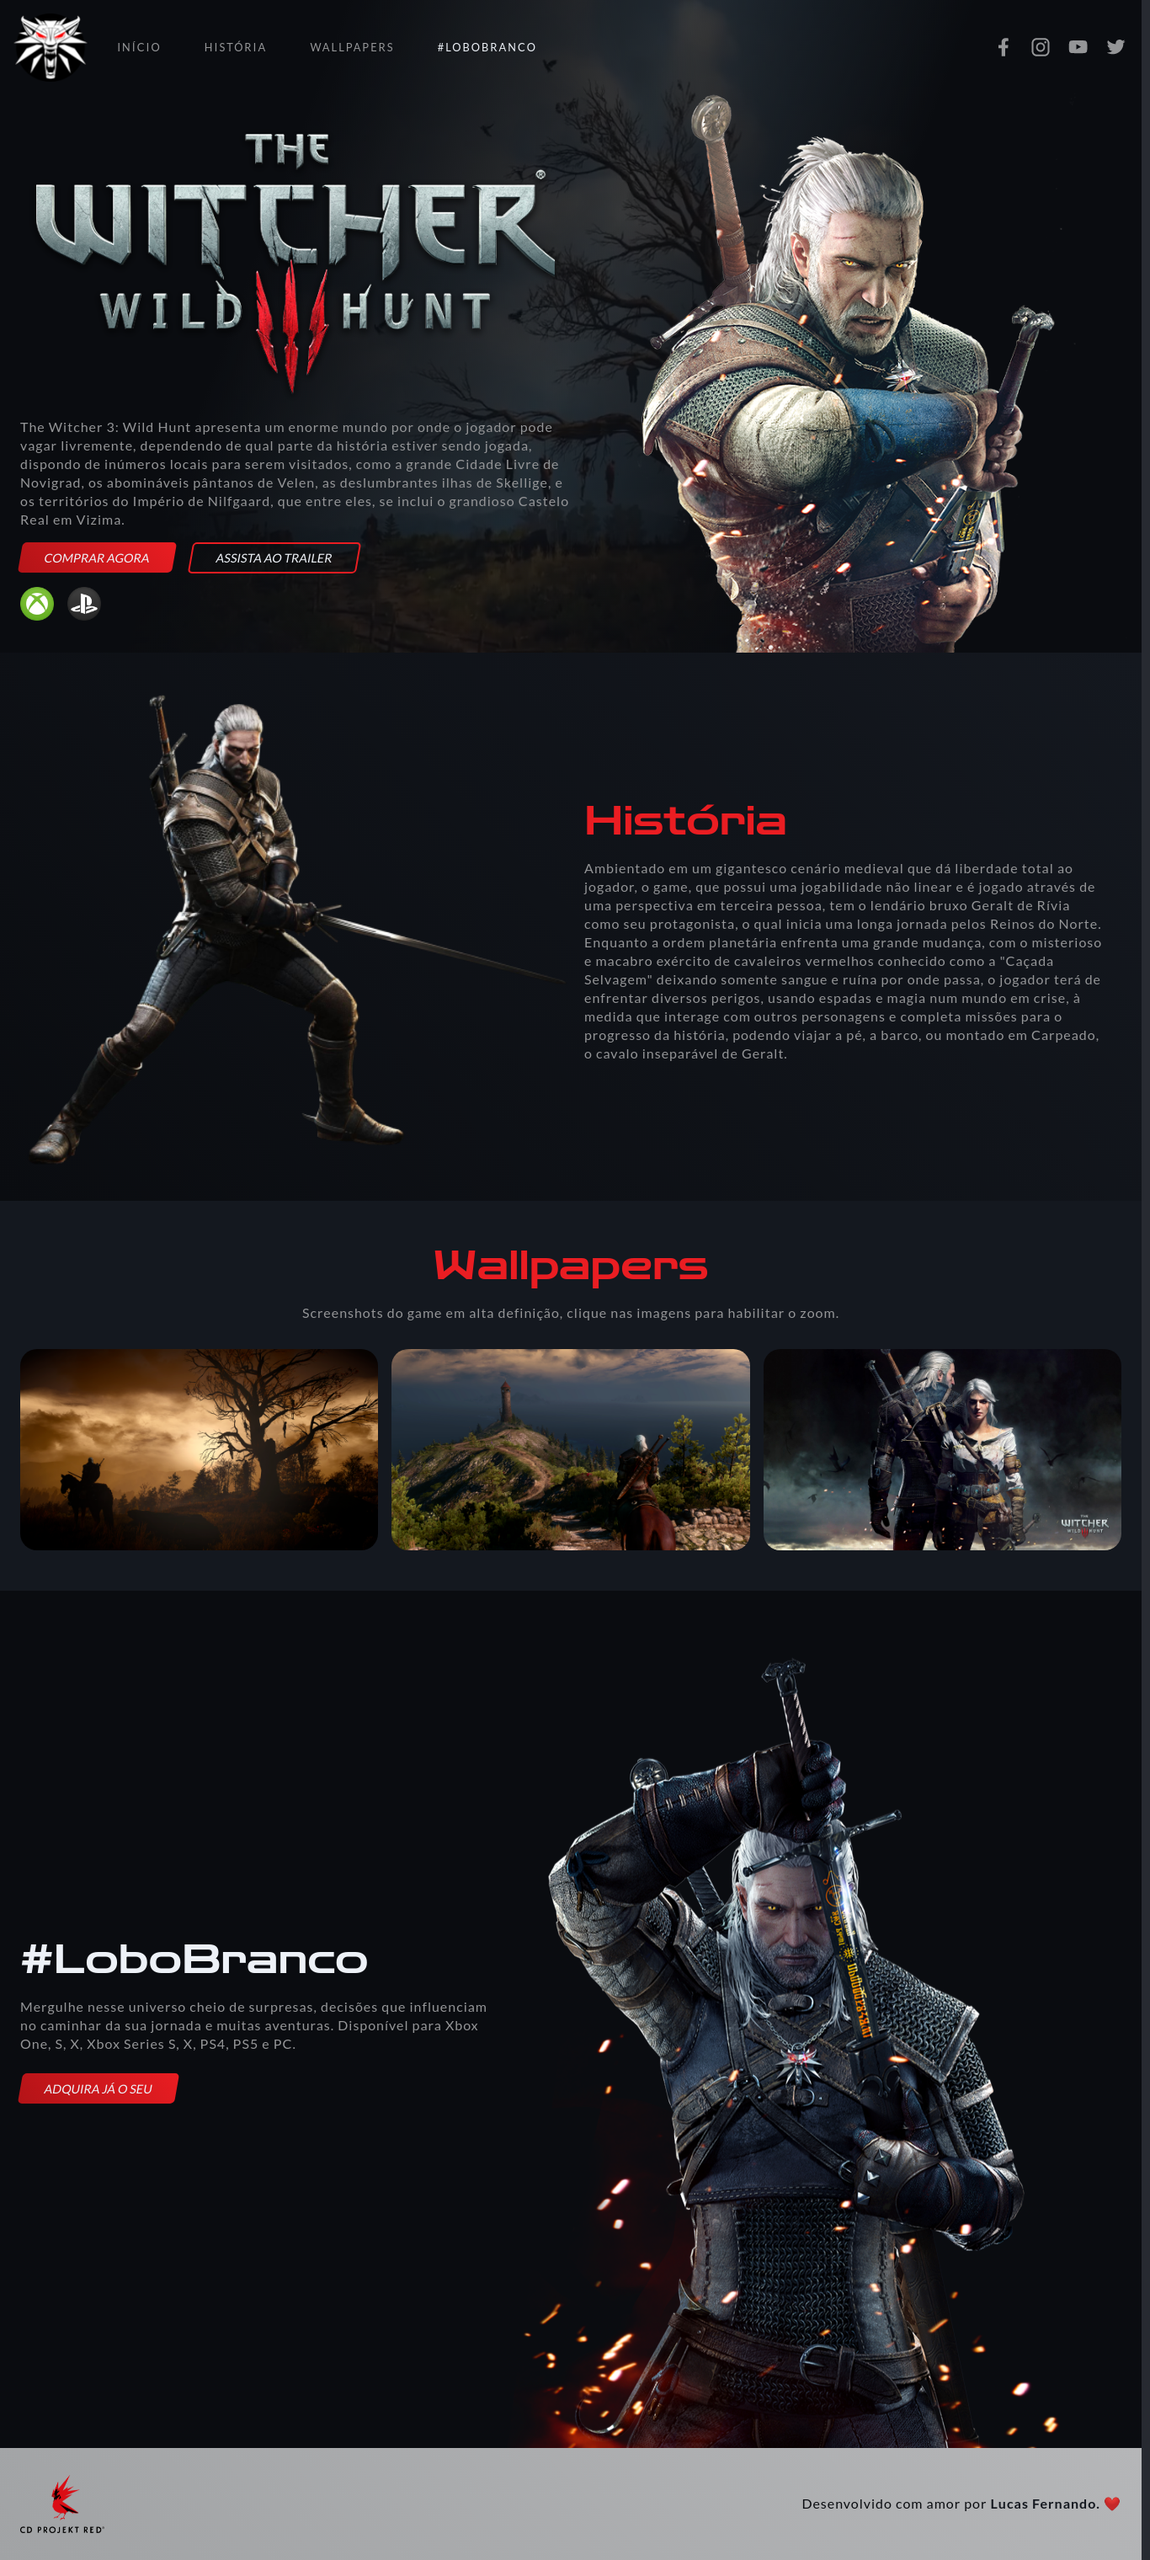
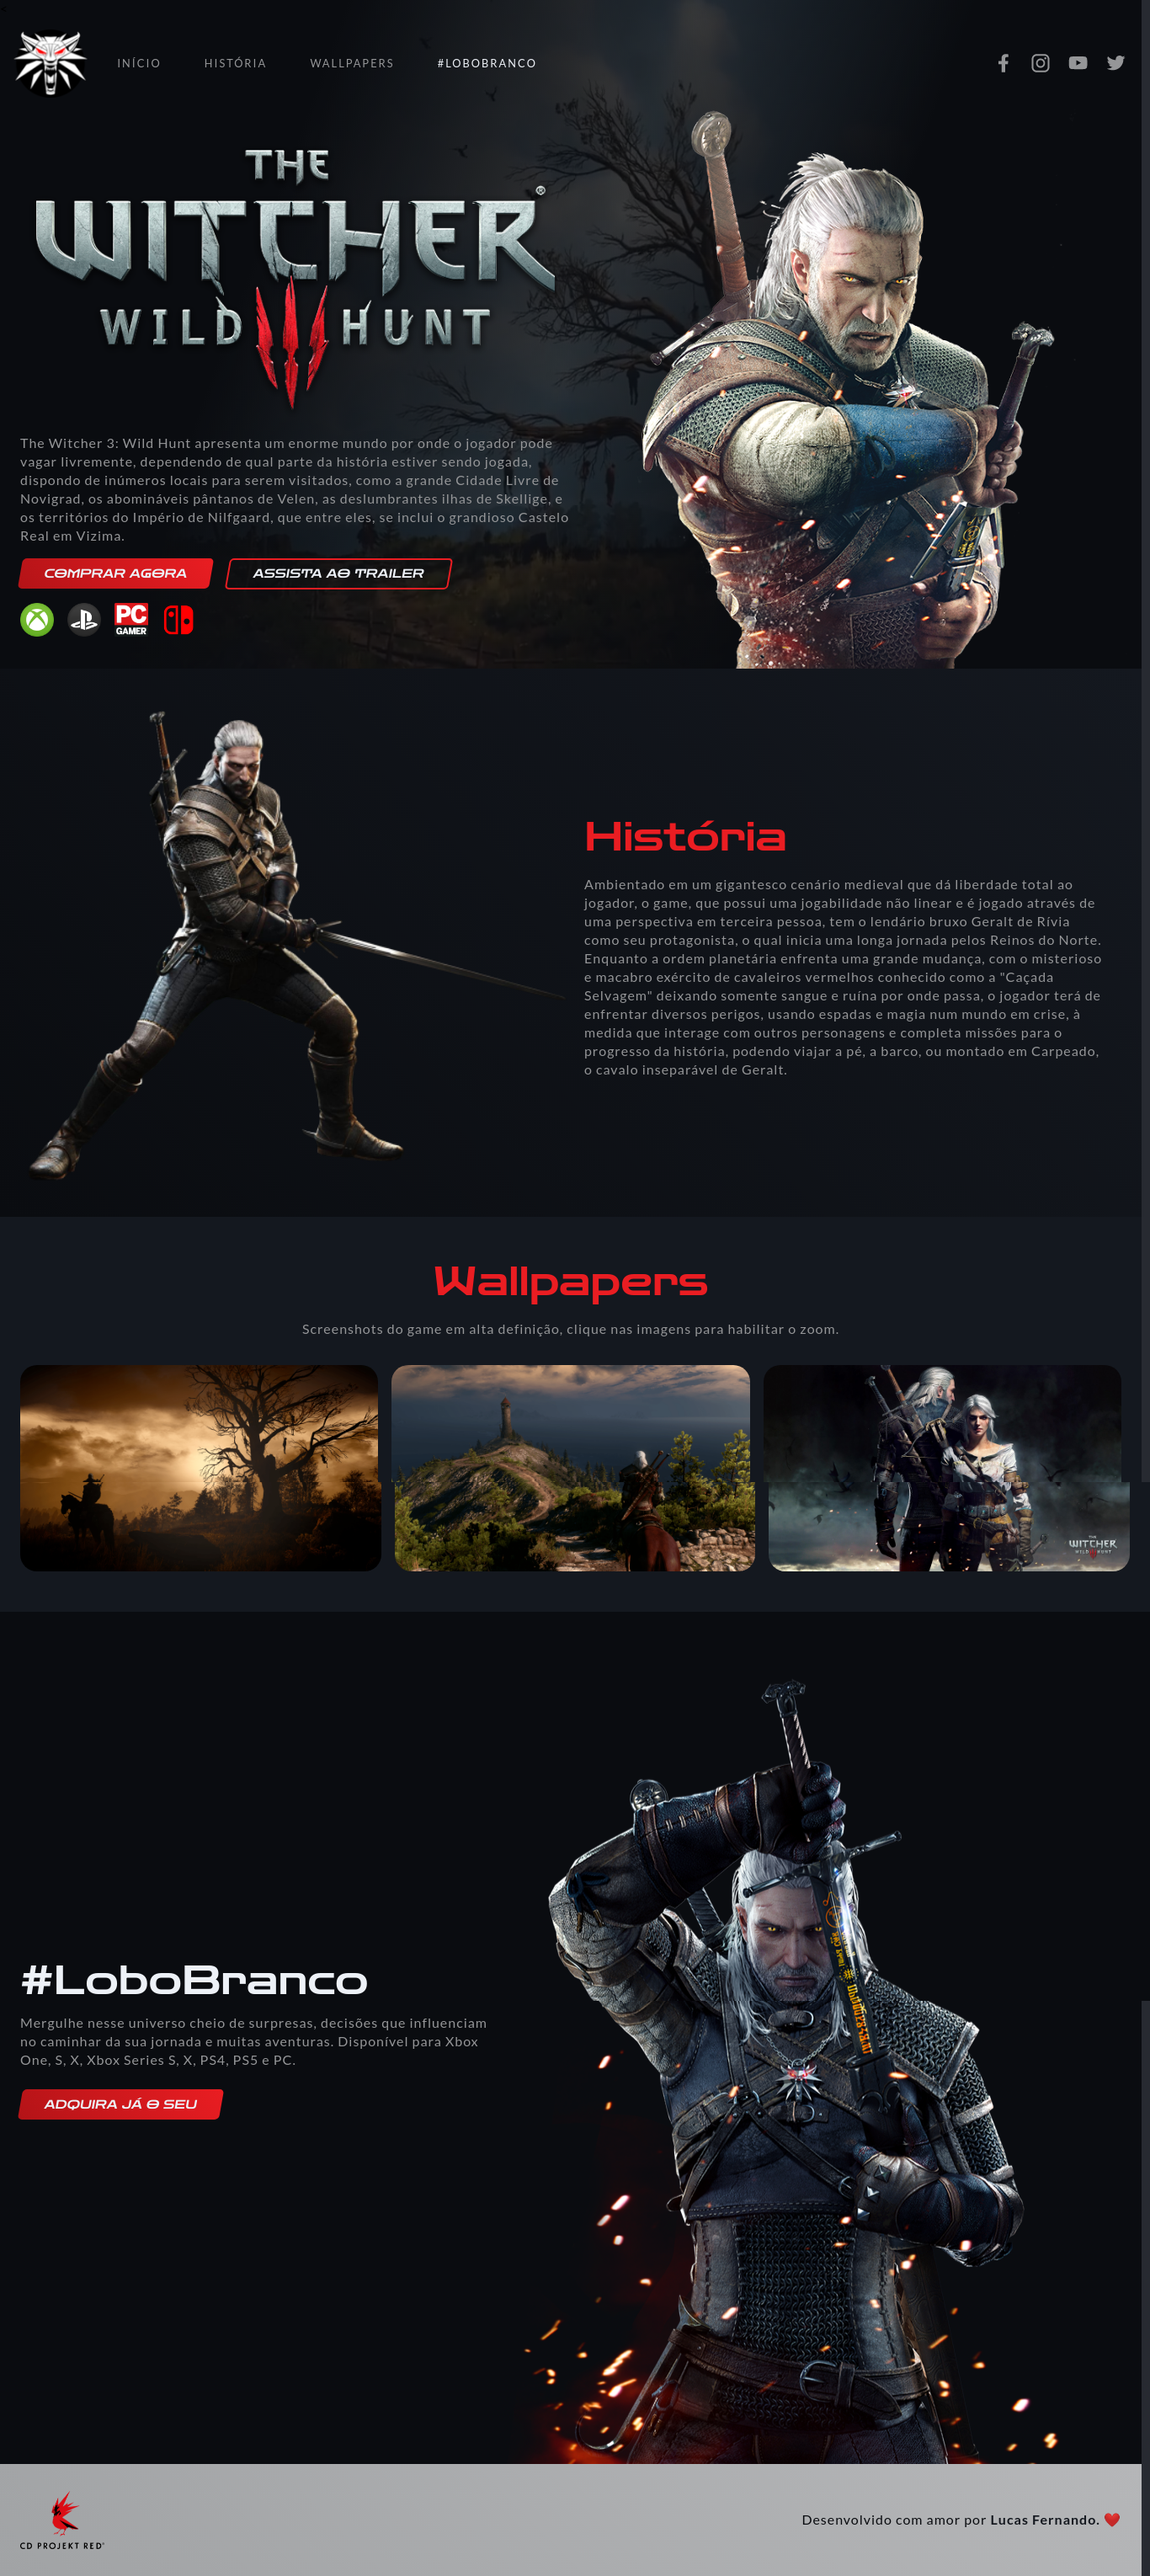
Correções

diff --git a/index.html b/index.html
@@ -40,7 +40,8 @@
         <nav class="navbar">
             <div class="nav-menu">
                 <div class="logo">
-                    <img src="images/logo-white.png" alt="Logo The Witcher 3" onload="SVGInject(this)">
+                    <img src="images/logo-white.png" alt="Logo The Witcher 3" onload="SVGInject(this)" data-aos="fade-down"
+                    data-aos-delay="200">
                 </div>
                 <ul id="nav-list" class="nav-list">
                     <li><a href="#hero" class="nav-link">Início</a></li>
@@ -84,7 +85,8 @@
         <div class="grid-container">
             <div class="container-content">
                 <div class="px-1 animation-hero-1">
-                    <img src="images/logo-tw3.png" alt="The Witcher 3 - Wild Hunt">
+                    <img src="images/logo-tw3.png" alt="The Witcher 3 - Wild Hunt" data-aos="zoom-in"
+                        data-aos-delay="200">
                 </div>
                 <div class="my-2 animation-hero-2">
                     <p>The Witcher 3: Wild Hunt apresenta um enorme mundo por onde o jogador pode vagar livremente,
@@ -94,8 +96,9 @@
                         inclui o grandioso Castelo Real em Vizima.</p>
                 </div>
                 <div class="mb-2 cta-group animation-hero-3">
-                    <a href="#" class="cta-buy mr-2">Comprar agora</a>
-                    <a href="#" class="cta-trailer" onclick="lightbox_open();">Assista ao
+                    <a href="#" class="cta-buy mr-2" data-aos="zoom-in" data-aos-delay="200">Comprar agora</a>
+                    <a href="#" class="cta-trailer" onclick="lightbox_open();" data-aos="zoom-in"
+                        data-aos-delay="200">Assista ao
                         trailer</a>
                 </div>
                 <div class="plataformas flex align-itens-center mt-1 animation-hero-4">

diff --git a/css/style.css b/css/style.css
@@ -132,6 +132,7 @@ p {
   text-transform: uppercase;
   -webkit-transition: 0.5s ease-in-out;
   transition: 0.5s ease-in-out;
+  font-family: "Zen Dots", sans-serif;
 }
 
 @media screen and (max-width: 960px) {
@@ -207,6 +208,7 @@ p {
   text-transform: uppercase;
   -webkit-transition: 0.5s ease-in-out;
   transition: 0.5s ease-in-out;
+  font-family: "Zen Dots", sans-serif;
 }
 
 @media screen and (max-width: 960px) {

diff --git a/css/scss/_layout.scss b/css/scss/_layout.scss
@@ -57,6 +57,7 @@
         color: $white;
         text-transform: uppercase;
         transition: 0.5s ease-in-out;
+        font-family: $zen-dots;
 
 
         @include responsive(sm) {
@@ -120,6 +121,7 @@
         color: $white;
         text-transform: uppercase;
         transition: 0.5s ease-in-out;
+        font-family: $zen-dots;
 
         @include responsive(sm) {
             display: flex;
